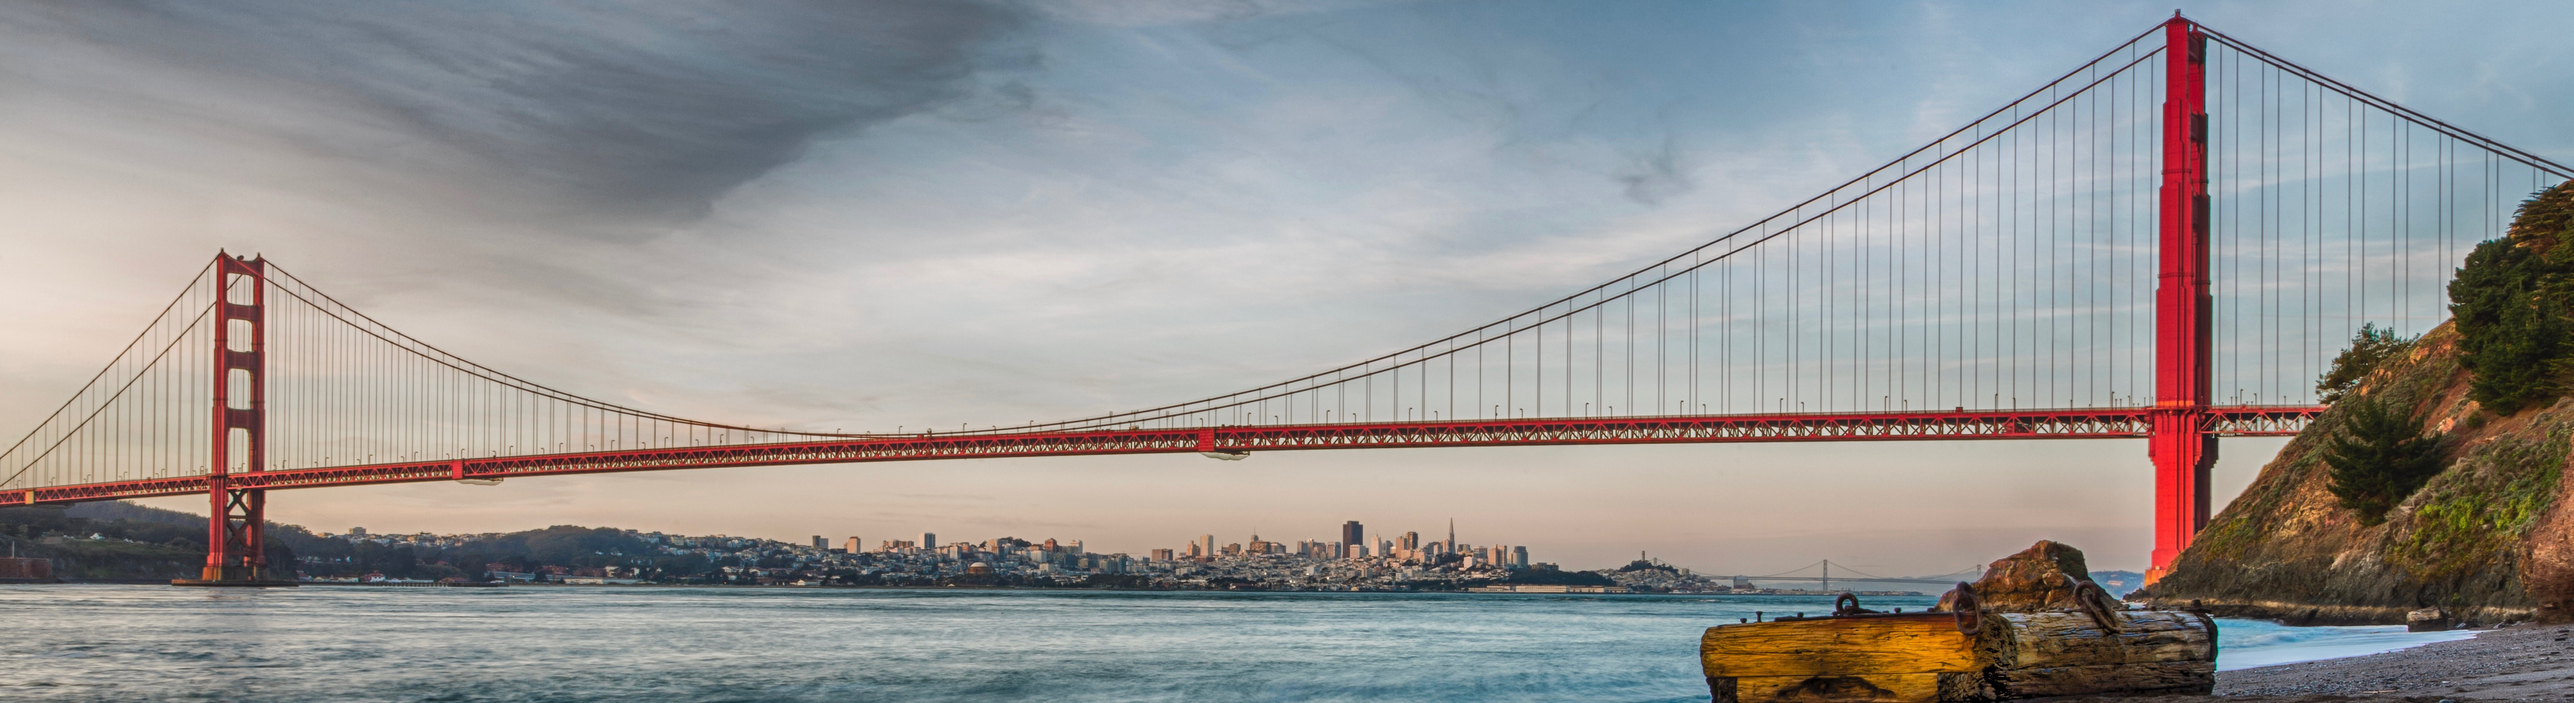
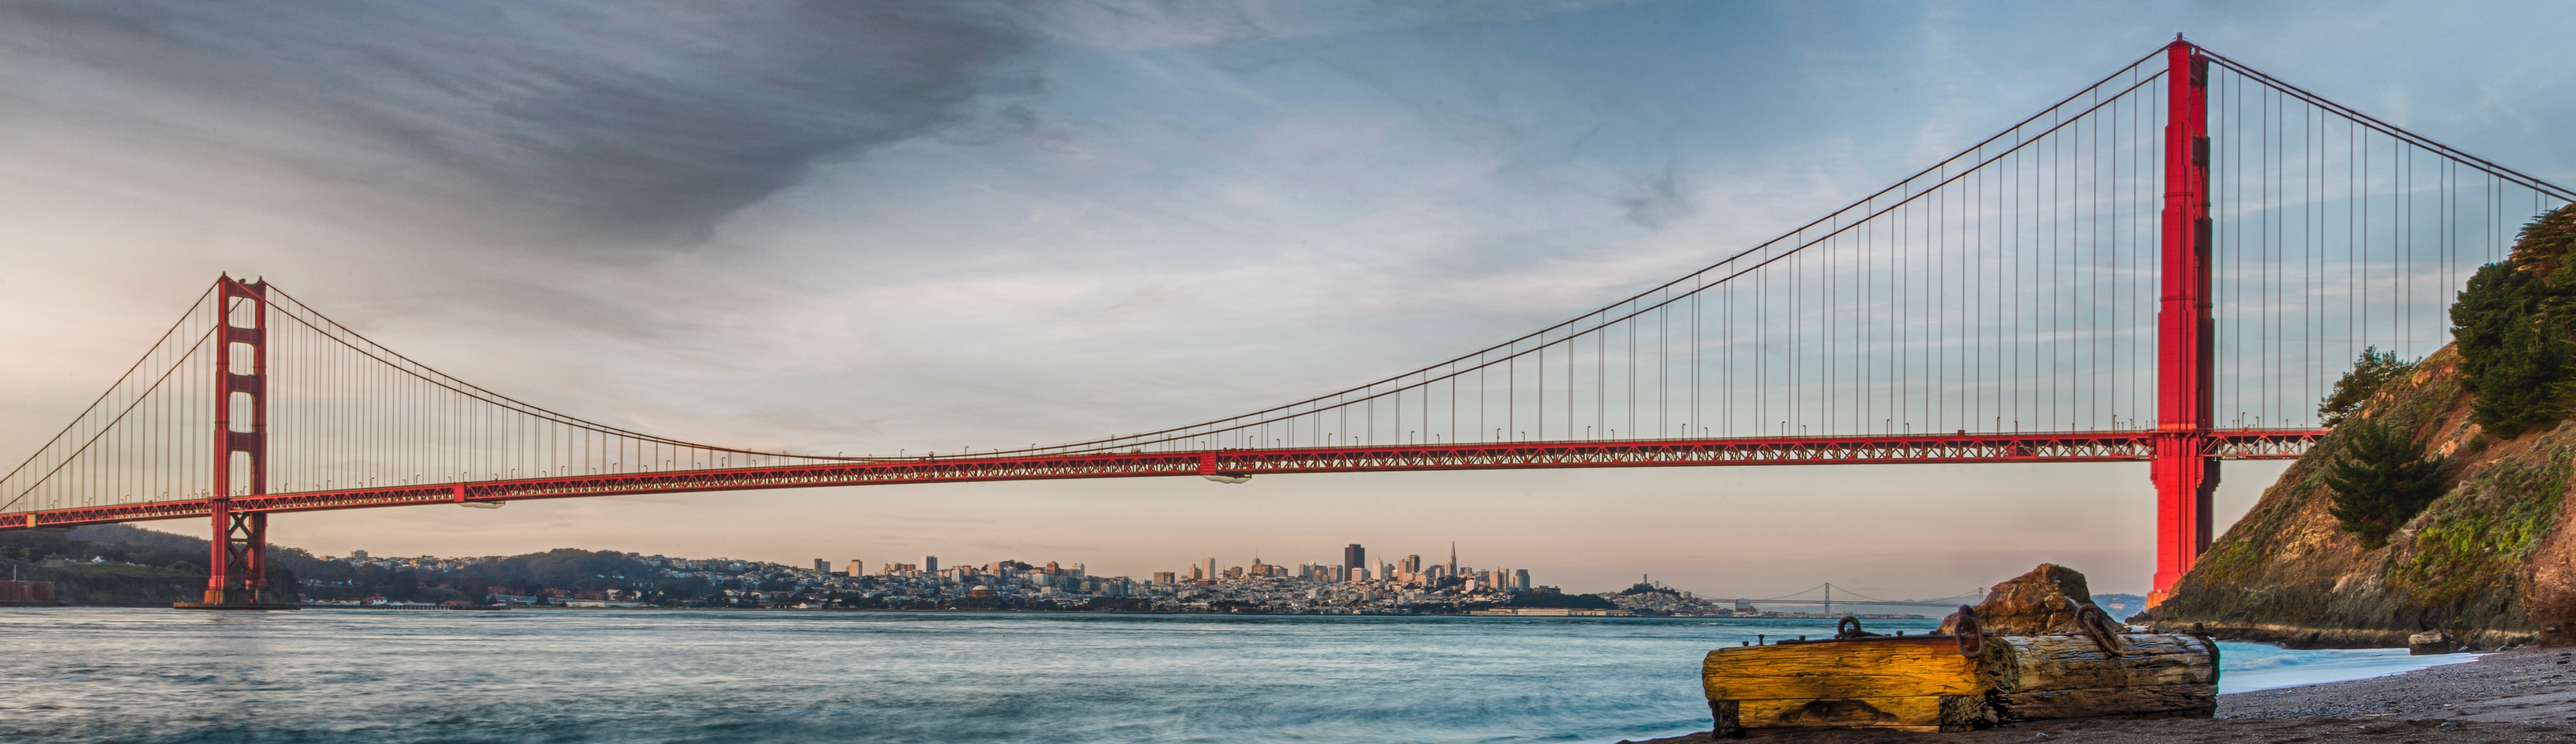
About

diff --git a/about.html b/about.html
@@ -200,7 +200,7 @@
         </div>
         
         <!-- Top Parallax Effect -->
-        <div class="parallax-window-top" data-parallax="scroll" data-image-src="images/GGB.jpg"></div>
+        <div class="parallax-window-top" data-parallax="scroll" data-image-src="images/hahah.jpg"></div>
         
         <!-- Personal Bio -->
         <div class="section-white">
